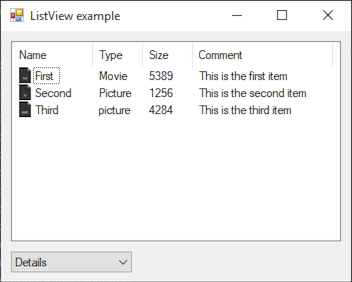
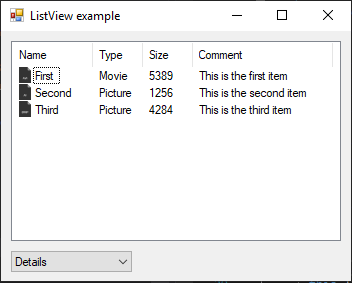
add examples and documentations

diff --git a/System.Windows.Forms/MainMenu/MainMenu.cs b/System.Windows.Forms/MainMenu/MainMenu.cs
@@ -12,19 +12,44 @@ namespace Examples {
     public Form1() {
       this.mainMenu.MenuItems.Add("File");
       this.mainMenu.MenuItems.Add("Edit");
-      this.mainMenu.MenuItems[0].MenuItems.Add(new MenuItem("New", delegate { System.Diagnostics.Debug.WriteLine("MainMenu/File/New"); }, Shortcut.CtrlN));
-      this.mainMenu.MenuItems[0].MenuItems.Add(new MenuItem("Open", delegate { System.Diagnostics.Debug.WriteLine("MainMenu/File/Open"); }, Shortcut.CtrlO));
-      this.mainMenu.MenuItems[0].MenuItems.Add(new MenuItem("Close", delegate { System.Diagnostics.Debug.WriteLine("MainMenu/File/Close"); }, Shortcut.CtrlW));
+      this.mainMenu.MenuItems.Add("View");
+
+      this.mainMenu.MenuItems[0].MenuItems.Add(new MenuItem("New", this.OnMenuClick, Shortcut.CtrlN));
+      this.mainMenu.MenuItems[0].MenuItems.Add(new MenuItem("Open...", this.OnMenuClick, Shortcut.CtrlO));
+      this.mainMenu.MenuItems[0].MenuItems.Add(new MenuItem("Open recent", this.OnMenuClick));
+      this.mainMenu.MenuItems[0].MenuItems.Add(new MenuItem("Close", this.OnMenuClick, Shortcut.CtrlW));
       this.mainMenu.MenuItems[0].MenuItems.Add(new MenuItem("-"));
-      this.mainMenu.MenuItems[0].MenuItems.Add(new MenuItem("Quit", delegate { System.Diagnostics.Debug.WriteLine("MainMenu/File/Close"); }, Environment.OSVersion.Platform >= PlatformID.Unix ? Shortcut.CtrlQ : Shortcut.AltF4));
-      this.mainMenu.MenuItems[1].MenuItems.Add(new MenuItem("Cut", delegate { System.Diagnostics.Debug.WriteLine("MainMenu/Edit/Cut"); }, Shortcut.CtrlX));
-      this.mainMenu.MenuItems[1].MenuItems.Add(new MenuItem("Copy", delegate { System.Diagnostics.Debug.WriteLine("MainMenu/Edit/Copy"); }, Shortcut.CtrlC));
-      this.mainMenu.MenuItems[1].MenuItems.Add(new MenuItem("Paste", delegate { System.Diagnostics.Debug.WriteLine("MainMenu/Edit/Paste"); }, Shortcut.CtrlV));
+      this.mainMenu.MenuItems[0].MenuItems.Add(new MenuItem("Save", this.OnMenuClick, Shortcut.CtrlS));
+      this.mainMenu.MenuItems[0].MenuItems.Add(new MenuItem("Save as...", this.OnMenuClick));
+      this.mainMenu.MenuItems[0].MenuItems.Add(new MenuItem("-"));
+      this.mainMenu.MenuItems[0].MenuItems.Add(new MenuItem("Quit", this.OnMenuClick, Environment.OSVersion.Platform >= PlatformID.Unix ? Shortcut.CtrlQ : Shortcut.AltF4));
+
+      this.mainMenu.MenuItems[1].MenuItems.Add(new MenuItem("Undo", this.OnMenuClick, Shortcut.CtrlZ));
+      this.mainMenu.MenuItems[1].MenuItems.Add(new MenuItem("Redo", this.OnMenuClick, Shortcut.CtrlY));
       this.mainMenu.MenuItems[1].MenuItems.Add("-");
-      this.mainMenu.MenuItems[1].MenuItems.Add(new MenuItem("Select All", delegate { System.Diagnostics.Debug.WriteLine("MainMenu/Edit/SelectAll"); }, Shortcut.CtrlA));
+      this.mainMenu.MenuItems[1].MenuItems.Add(new MenuItem("Cut", this.OnMenuClick, Shortcut.CtrlX));
+      this.mainMenu.MenuItems[1].MenuItems.Add(new MenuItem("Copy", this.OnMenuClick, Shortcut.CtrlC));
+      this.mainMenu.MenuItems[1].MenuItems.Add(new MenuItem("Paste", this.OnMenuClick, Shortcut.CtrlV));
+      this.mainMenu.MenuItems[1].MenuItems.Add("-");
+      this.mainMenu.MenuItems[1].MenuItems.Add(new MenuItem("Select All", this.OnMenuClick, Shortcut.CtrlA));
+
+      this.mainMenu.MenuItems[2].MenuItems.Add(new MenuItem("Show", this.OnMenuClick));
+      this.mainMenu.MenuItems[2].MenuItems.Add(new MenuItem("Hide", this.OnMenuClick));
+
+      this.listBox1.Parent = this;
+      this.listBox1.Anchor = AnchorStyles.Left | AnchorStyles.Top | AnchorStyles.Right | AnchorStyles.Bottom;
+      this.listBox1.Bounds = new System.Drawing.Rectangle(10, 10, this.ClientSize.Width - 20, this.ClientSize.Height - 20);
+
       this.Menu = this.mainMenu;
+      this.Text = "MainMenu example";
     }
 
-    MainMenu mainMenu = new MainMenu();
+    void OnMenuClick(object sender, EventArgs e) {
+      this.listBox1.Items.Add(string.Format("{0}/{1} clicked", ((sender as MenuItem).Parent as MenuItem).Text, (sender as MenuItem).Text));
+      this.listBox1.SelectedIndex = this.listBox1.Items.Count - 1;
+    }
+
+  MainMenu mainMenu = new MainMenu();
+    ListBox listBox1 = new ListBox();
   }
 }

diff --git a/System.Windows.Forms/MenuStrip/MenuStrip.cs b/System.Windows.Forms/MenuStrip/MenuStrip.cs
@@ -1,0 +1,57 @@
+using System;
+using System.Drawing;
+using System.Windows.Forms;
+
+namespace Examples {
+  public class Form1 : Form {
+    // The main entry point for the application.
+    public static void Main() {
+      Application.EnableVisualStyles();
+      Application.Run(new Form1());
+    }
+
+    public Form1() {
+      this.menuSrtrip.Parent = this;
+      this.menuSrtrip.Items.Add("File");
+      this.menuSrtrip.Items.Add("Edit");
+      this.menuSrtrip.Items.Add("View");
+
+      (this.menuSrtrip.Items[0] as ToolStripMenuItem).DropDown.Items.Add(new ToolStripMenuItem("New", null, this.OnMenuClick, Keys.N| Keys.Control));
+      (this.menuSrtrip.Items[0] as ToolStripMenuItem).DropDown.Items.Add(new ToolStripMenuItem("Open", null, this.OnMenuClick, Keys.O | Keys.Control));
+      (this.menuSrtrip.Items[0] as ToolStripMenuItem).DropDown.Items.Add(new ToolStripMenuItem("Open recent...", null, this.OnMenuClick));
+      (this.menuSrtrip.Items[0] as ToolStripMenuItem).DropDown.Items.Add(new ToolStripMenuItem("Close", null, this.OnMenuClick, Keys.W | Keys.Control));
+      (this.menuSrtrip.Items[0] as ToolStripMenuItem).DropDown.Items.Add("-");
+      (this.menuSrtrip.Items[0] as ToolStripMenuItem).DropDown.Items.Add(new ToolStripMenuItem("Save", null, this.OnMenuClick, Keys.S | Keys.Control));
+      (this.menuSrtrip.Items[0] as ToolStripMenuItem).DropDown.Items.Add(new ToolStripMenuItem("Save as...", null, this.OnMenuClick));
+      (this.menuSrtrip.Items[0] as ToolStripMenuItem).DropDown.Items.Add("-");
+      (this.menuSrtrip.Items[0] as ToolStripMenuItem).DropDown.Items.Add(new ToolStripMenuItem("Quit", null, this.OnMenuClick, Environment.OSVersion.Platform >= PlatformID.Unix ? Keys.Q | Keys.Control : Keys.F4 | Keys.Alt));
+
+      (this.menuSrtrip.Items[1] as ToolStripMenuItem).DropDown.Items.Add(new ToolStripMenuItem("Undo", null, this.OnMenuClick, Keys.Z | Keys.Control));
+      (this.menuSrtrip.Items[1] as ToolStripMenuItem).DropDown.Items.Add(new ToolStripMenuItem("Redo", null, this.OnMenuClick, Keys.Y | Keys.Control));
+      (this.menuSrtrip.Items[1] as ToolStripMenuItem).DropDown.Items.Add("-");
+      (this.menuSrtrip.Items[1] as ToolStripMenuItem).DropDown.Items.Add(new ToolStripMenuItem("Cut", null, this.OnMenuClick, Keys.X | Keys.Control));
+      (this.menuSrtrip.Items[1] as ToolStripMenuItem).DropDown.Items.Add(new ToolStripMenuItem("Copy", null, this.OnMenuClick, Keys.C | Keys.Control));
+      (this.menuSrtrip.Items[1] as ToolStripMenuItem).DropDown.Items.Add(new ToolStripMenuItem("Paste", null, this.OnMenuClick, Keys.V | Keys.Control));
+      (this.menuSrtrip.Items[1] as ToolStripMenuItem).DropDown.Items.Add("-");
+      (this.menuSrtrip.Items[1] as ToolStripMenuItem).DropDown.Items.Add(new ToolStripMenuItem("Select all", null, this.OnMenuClick, Keys.A | Keys.Control));
+
+      (this.menuSrtrip.Items[2] as ToolStripMenuItem).DropDown.Items.Add(new ToolStripMenuItem("Show", null, this.OnMenuClick));
+      (this.menuSrtrip.Items[2] as ToolStripMenuItem).DropDown.Items.Add(new ToolStripMenuItem("Hide", null, this.OnMenuClick));
+
+      this.listBox1.Parent = this;
+      this.listBox1.Anchor = AnchorStyles.Left | AnchorStyles.Top | AnchorStyles.Right | AnchorStyles.Bottom;
+      this.listBox1.Bounds = new System.Drawing.Rectangle(10, this.menuSrtrip.Height + 10, this.ClientSize.Width - 20, this.ClientSize.Height - this.menuSrtrip.Height + - 20);
+
+      this.MainMenuStrip = this.menuSrtrip;
+      this.Text = "MenuStrip example";
+    }
+
+    void OnMenuClick(object sender, EventArgs e) {
+      this.listBox1.Items.Add(string.Format("{0}/{1} clicked", (sender as ToolStripMenuItem).OwnerItem.Text, (sender as ToolStripMenuItem).Text));
+      this.listBox1.SelectedIndex = this.listBox1.Items.Count - 1;
+    }
+
+    MenuStrip menuSrtrip = new MenuStrip();
+    ListBox listBox1 = new ListBox();
+  }
+}

diff --git a/System.Windows.Forms/ListView/ListView.cs b/System.Windows.Forms/ListView/ListView.cs
@@ -31,8 +31,8 @@ namespace Examples {
       this.listView1.Columns.Add("Comment", 140);
 
       this.listView1.Items.Add("First", 1).SubItems.AddRange(new string[] {"Movie", "5389", "This is the first item"});
-      this.listView1.Items.Add("Second", 0).SubItems.AddRange(new string[] { "Picture", "1256", "This is the second item" });
-      this.listView1.Items.Add("Third", 2).SubItems.AddRange(new string[] { "picture", "4284", "This is the third item" });
+      this.listView1.Items.Add("Second", 0).SubItems.AddRange(new string[] {"Picture", "1256", "This is the second item"});
+      this.listView1.Items.Add("Third", 2).SubItems.AddRange(new string[] {"Picture", "4284", "This is the third item"});
 
       this.comboBox1.Location = new System.Drawing.Point(10, 220);
       this.comboBox1.Parent = this;

diff --git a/System.Windows.Forms/TabControl/TabControl.cs b/System.Windows.Forms/TabControl/TabControl.cs
@@ -19,7 +19,7 @@ namespace Examples {
       this.tabControl1.TabPages.Add(this.tabPage3);
 
       this.ClientSize = new System.Drawing.Size(390, 270);
-      this.Text = "Colored TabPages example";
+      this.Text = "TabControl example";
       this.Controls.Add(this.tabControl1);
     }
 

diff --git a/System.Windows.Forms/README.md b/System.Windows.Forms/README.md
@@ -47,7 +47,7 @@
 ## Containers
 
 * **FlowLayoutPanel** represents a panel that dynamically lays out its contents horizontally or vertically.
-* [Form](./Form/README.md) represents a window or dialog box that makes up an application's user interfa
+* [Form](./Form/README.md) represents a window or dialog box that makes up an application's user interface.
 * [GroupBox](./GroupBox/README.md) represents a Windows control that displays a frame around a group of controls with an optional caption.
 * [Panel](./Panel/README.md) used to group collections of controls.
 * **SplitContainer** represents a control consisting of a movable bar that divides a container's display area into two resizable panels.
@@ -57,7 +57,8 @@
 ## Menus and Toolbars
 
 * **ContextMenuStrip** represents a shortcut menu.
-* **MenuStrip** provides a menu system for a form.
+* [MainMenu](MainMenu/README.md) provides a main menu system for a form.
+* [MenuStrip](MenuStrip/README.md) provides a menu system for a form.
 * **StatusStrip** represents a Windows status bar control.
 * **ToolStrip** provides a container for Windows toolbar objects.
 * **ToolStripContainer** provides panels on each side of the form and a central panel that can hold one or more controls.

diff --git a/System.Windows.Forms/TabControl/README.md b/System.Windows.Forms/TabControl/README.md
@@ -1,0 +1,16 @@
+# TabControl
+
+[This example](.) demonstrates the use of System.Windows.Forms.TabControl control.
+
+# Sources
+
+[TabControl.cs](TabControl.cs)
+
+# Build and run
+
+Open [TabControl.csproj](TabControl.csproj)
+
+# Output
+
+![Screenshot](../../docs/Pictures/Forms/TabControl.png)
+

diff --git a/System.Windows.Forms/MenuStrip/README.md b/System.Windows.Forms/MenuStrip/README.md
@@ -1,0 +1,16 @@
+# MenuStrip
+
+[This example](.) demonstrates the use of System.Windows.Forms.MenuStrip control.
+
+# Sources
+
+[MenuStrip.cs](MenuStrip.cs)
+
+# Build and run
+
+Open [MenuStrip.csproj](MenuStrip.csproj)
+
+# Output
+
+![Screenshot](../../docs/Pictures/Forms/MenuStrip.png)
+

diff --git a/System.Windows.Forms/GroupBox/README.md b/System.Windows.Forms/GroupBox/README.md
@@ -1,0 +1,16 @@
+# GroupBox
+
+[This example](.) demonstrates the use of System.Windows.Forms.GroupBox control.
+
+# Sources
+
+[GroupBox.cs](GroupBox.cs)
+
+# Build and run
+
+Open [GroupBox.csproj](GroupBox.csproj)
+
+# Output
+
+![Screenshot](../../docs/Pictures/Forms/GroupBox.png)
+

diff --git a/System.Windows.Forms/MainMenu/README.md b/System.Windows.Forms/MainMenu/README.md
@@ -1,0 +1,16 @@
+# MainMenu
+
+[This example](.) demonstrates the use of System.Windows.Forms.MainMenu control.
+
+# Sources
+
+[MainMenu.cs](MainMenu.cs)
+
+# Build and run
+
+Open [MainMenu.csproj](MainMenu.csproj)
+
+# Output
+
+![Screenshot](../../docs/Pictures/Forms/MainMenu.png)
+

diff --git a/System.Windows.Forms/Panel/README.md b/System.Windows.Forms/Panel/README.md
@@ -1,0 +1,16 @@
+# Panel
+
+[This example](.) demonstrates the use of System.Windows.Forms.Panel control.
+
+# Sources
+
+[Panel.cs](Panel.cs)
+
+# Build and run
+
+Open [Panel.csproj](Panel.csproj)
+
+# Output
+
+![Screenshot](../../docs/Pictures/Forms/Panel.png)
+

diff --git a/System.Windows.Forms/Form/README.md b/System.Windows.Forms/Form/README.md
@@ -1,0 +1,16 @@
+# Form
+
+[This example](.) demonstrates the use of System.Windows.Forms.Form control.
+
+# Sources
+
+[Form.cs](Form.cs)
+
+# Build and run
+
+Open [Form.csproj](Form.csproj)
+
+# Output
+
+![Screenshot](../../docs/Pictures/Forms/Form.png)
+
